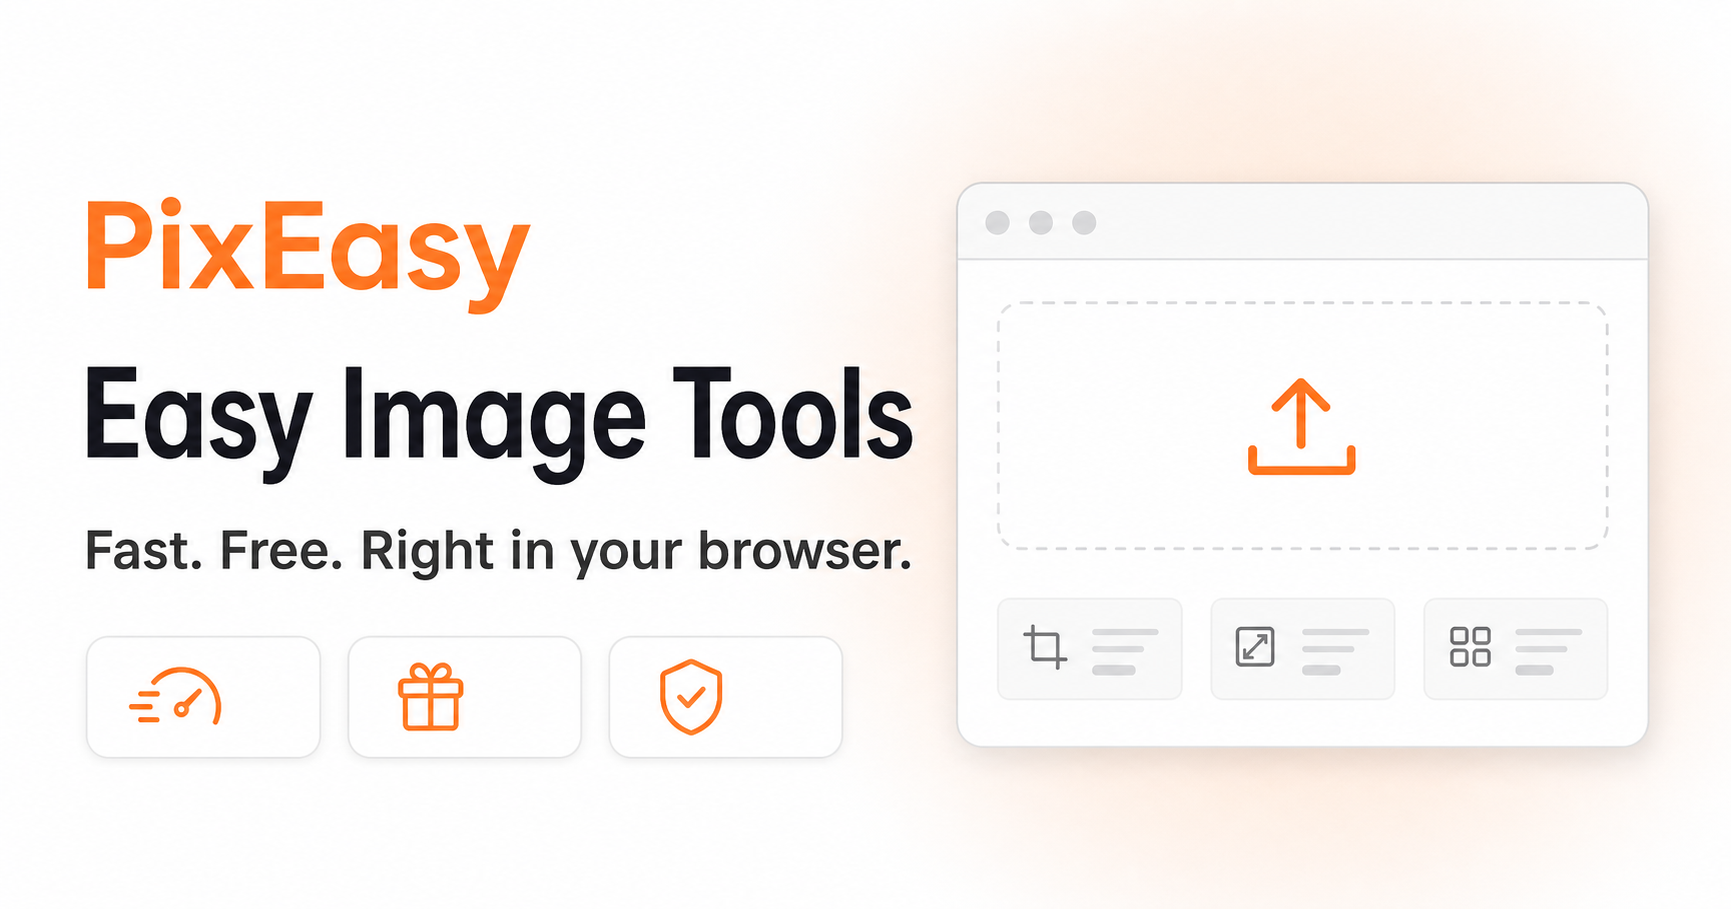
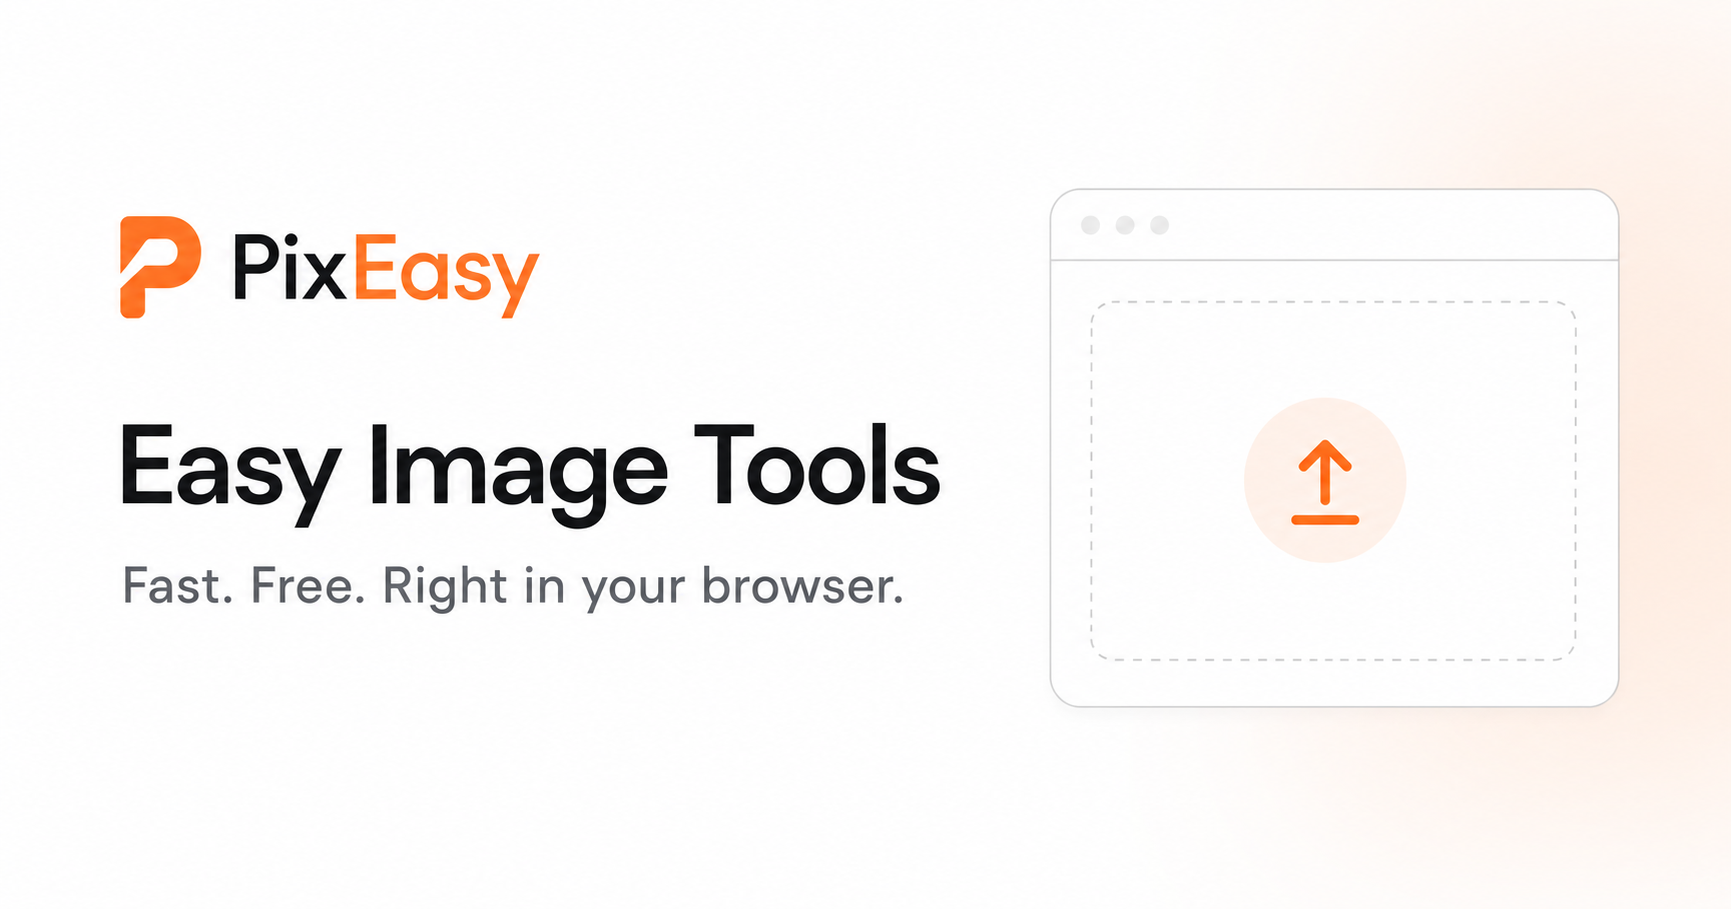
Polish PixEasy interface and brand assets

diff --git a/app/globals.css b/app/globals.css
@@ -1,59 +1,69 @@
 @import "tailwindcss";
 
-:root { --orange:#ff862c; --orange-dark:#d95d09; --ink:#1d1d1f; --muted:#6f7177; --line:#e9e9e7; --soft:#faf9f7; --green:#16865c; }
+:root { --orange:#ff862c; --orange-hover:#ff9547; --orange-dark:#c95106; --ink:#171719; --muted:#65676d; --line:#e9e9e7; --soft:#faf9f7; --green:#16805a; }
 * { box-sizing:border-box; }
 html { scroll-behavior:smooth; }
-body { margin:0; background:#fff; color:var(--ink); font-family:Pretendard, Inter, ui-sans-serif, system-ui, -apple-system, BlinkMacSystemFont, "Segoe UI", sans-serif; }
+body { margin:0; background:#fff; color:var(--ink); font-family:Pretendard, Inter, ui-sans-serif, system-ui, -apple-system, BlinkMacSystemFont, "Segoe UI", sans-serif; -webkit-font-smoothing:antialiased; text-rendering:optimizeLegibility; }
 a { color:inherit; text-decoration:none; }
 button,input,select { font:inherit; }
 button { cursor:pointer; }
-:focus-visible { outline:3px solid rgba(255,134,44,.42); outline-offset:3px; }
+:focus-visible { outline:3px solid rgba(255,134,44,.5); outline-offset:3px; }
 .wrap { width:min(1120px, calc(100% - 32px)); margin-inline:auto; }
-.site-header { height:72px; border-bottom:1px solid var(--line); background:rgba(255,255,255,.94); position:sticky; top:0; z-index:20; backdrop-filter:blur(12px); }
+.site-header { height:72px; border-bottom:1px solid rgba(20,20,20,.07); background:rgba(255,255,255,.88); position:sticky; top:0; z-index:20; backdrop-filter:blur(18px) saturate(1.4); }
 .header-inner { height:100%; display:flex; align-items:center; justify-content:space-between; gap:24px; }
 .logo { font-size:1.45rem; font-weight:850; letter-spacing:-.045em; }
 .logo i { color:var(--orange); font-style:normal; }
-.nav { display:flex; align-items:center; gap:26px; color:#555; font-size:.94rem; font-weight:650; }
+.nav { display:flex; align-items:center; gap:28px; color:#55575c; font-size:.9rem; font-weight:650; }
+.nav a { transition:color 160ms ease; }
 .nav a:hover { color:var(--orange-dark); }
-.hero { min-height:650px; padding:92px 16px 52px; text-align:center; background:radial-gradient(circle at 50% 26%,#fff4eb 0,rgba(255,244,235,0) 36%); }
-.eyebrow { color:var(--orange-dark); font-size:.76rem; text-transform:uppercase; letter-spacing:.14em; font-weight:800; margin:0 0 14px; }
+.hero { min-height:690px; padding:108px 16px 64px; text-align:center; background:radial-gradient(circle at 50% 23%,#fff6ef 0,rgba(255,246,239,0) 38%); }
+.eyebrow { color:var(--orange-dark); font-size:.73rem; text-transform:uppercase; letter-spacing:.16em; font-weight:800; margin:0 0 20px; }
 h1,h2,h3,p { margin-top:0; }
-.hero h1 { margin-bottom:13px; font-size:clamp(2.8rem,8vw,5.3rem); letter-spacing:-.065em; line-height:.96; }
-.hero-subtitle { color:var(--muted); font-size:clamp(1.05rem,3vw,1.32rem); margin-bottom:38px; }
-.upload-zone { display:block; width:min(760px,100%); min-height:230px; margin:0 auto; padding:32px; border:1.5px dashed #c9c7c3; border-radius:20px; background:#fff; box-shadow:0 14px 46px rgba(40,31,23,.06); transition:.2s ease; position:relative; }
-.upload-zone.dragging,.upload-zone:hover { border-color:var(--orange); background:#fffaf6; transform:translateY(-2px); }
-.upload-zone.compact { min-height:170px; width:100%; box-shadow:none; }
-.upload-icon { width:54px; height:54px; margin:4px auto 18px; display:grid; place-items:center; border-radius:15px; background:#fff0e5; color:var(--orange-dark); font-size:1.6rem; }
+.hero h1 { margin-bottom:18px; font-size:clamp(2.9rem,8vw,5.4rem); letter-spacing:-.068em; line-height:.96; }
+.hero-subtitle { color:var(--muted); font-size:clamp(1.08rem,3vw,1.34rem); margin-bottom:46px; }
+.upload-zone { display:block; width:min(760px,100%); min-height:260px; margin:0 auto; padding:42px 34px 32px; border:1.5px dashed #c8c7c4; border-radius:22px; background:rgba(255,255,255,.96); box-shadow:0 18px 55px rgba(32,27,23,.065); transition:border-color 180ms ease,background-color 180ms ease,box-shadow 180ms ease,transform 180ms ease; position:relative; }
+.upload-zone:hover { border-color:#ffb27b; background:#fffdfb; box-shadow:0 22px 65px rgba(40,31,23,.09); transform:translateY(-2px); }
+.upload-zone.dragging { border-color:var(--orange); background:#fff8f2; box-shadow:0 0 0 4px rgba(255,134,44,.11),0 22px 65px rgba(40,31,23,.09); transform:translateY(-2px); }
+.upload-zone.compact { min-height:205px; width:100%; padding-block:30px 26px; box-shadow:0 8px 30px rgba(25,25,25,.035); }
+.upload-icon { width:68px; height:68px; margin:0 auto 22px; display:grid; place-items:center; border-radius:20px; background:#fff0e5; color:var(--orange-dark); font-size:2rem; font-weight:500; }
 .upload-zone strong { display:block; font-size:1.08rem; }
-.upload-zone small { display:block; color:var(--muted); margin:8px 0 20px; }
-.upload-button,.primary-btn { border:0; color:#fff; background:var(--orange); border-radius:10px; min-height:44px; padding:0 22px; font-weight:750; box-shadow:0 5px 15px rgba(255,134,44,.22); }
-.upload-button:hover,.primary-btn:hover { background:#f2741b; }
-.upload-note { display:block; margin-top:13px; color:#888; font-size:.76rem; }
-.trust-row { display:flex; flex-wrap:wrap; justify-content:center; gap:18px 28px; margin:28px auto 0; color:#61636a; font-size:.83rem; }
-.trust-row span { display:flex; gap:7px; align-items:center; }
-.trust-row b { color:var(--green); }
-.home-tools { padding:82px 0; }
+.upload-zone small { display:block; color:var(--muted); margin:9px 0 23px; }
+.upload-button,.primary-btn { border:0; color:#fff; background:var(--orange); border-radius:12px; min-height:46px; padding:0 24px; font-weight:750; box-shadow:0 5px 15px rgba(255,134,44,.2); transition:background-color 160ms ease,box-shadow 160ms ease; }
+.upload-button:hover,.primary-btn:hover { background:var(--orange-hover); box-shadow:0 7px 20px rgba(255,134,44,.25); }
+.format-list { display:flex; align-items:center; justify-content:center; flex-wrap:wrap; gap:8px 15px; margin-top:19px; color:#77797f; font-size:.76rem; }
+.format-list>span { display:inline-flex; align-items:center; gap:5px; }
+.format-list b { color:var(--green); }
+.format-list .size-limit { padding-left:15px; border-left:1px solid #dededb; color:#8a8b90; }
+.trust-row { display:flex; flex-wrap:wrap; justify-content:center; gap:14px; margin:34px auto 0; color:#5d6065; font-size:.82rem; }
+.trust-row>span { display:flex; gap:8px; align-items:center; padding:8px 12px; border:1px solid #ecece9; border-radius:999px; background:rgba(255,255,255,.7); }
+.trust-row b { width:17px; height:17px; display:grid; place-items:center; color:#fff; background:var(--green); border-radius:50%; font-size:.62rem; }
+.home-tools { padding:100px 0 86px; }
 .section-heading { display:flex; justify-content:space-between; align-items:end; gap:20px; margin-bottom:28px; }
 .section-heading h2 { font-size:clamp(1.75rem,4vw,2.5rem); letter-spacing:-.045em; margin:0; }
 .section-heading>p { color:var(--muted); max-width:330px; margin:0; }
-.tool-cards { display:grid; grid-template-columns:repeat(3,1fr); gap:16px; }
-.tool-card { border:1px solid var(--line); border-radius:16px; padding:24px; display:grid; grid-template-columns:auto 1fr auto; gap:15px; align-items:center; box-shadow:0 6px 22px rgba(20,20,20,.035); transition:.2s; }
-.tool-card:hover { transform:translateY(-3px); border-color:#ffd3b3; }
-.card-icon { width:44px; height:44px; display:grid; place-items:center; border-radius:12px; background:#fff1e7; color:var(--orange-dark); font-weight:900; }
+.tool-cards { display:grid; grid-template-columns:repeat(3,1fr); gap:18px; }
+.tool-card { min-height:205px; border:1px solid rgba(24,24,24,.075); border-radius:18px; padding:28px; display:grid; grid-template-columns:1fr auto; grid-template-rows:auto 1fr; gap:24px 14px; align-items:start; background:linear-gradient(180deg,#fff 0%,#fffdfb 100%); box-shadow:0 10px 30px rgba(20,20,20,.045); cursor:pointer; transition:transform 180ms ease,box-shadow 180ms ease,border-color 180ms ease; }
+.tool-card:hover { transform:translateY(-5px); border-color:#ffd0ae; box-shadow:0 18px 44px rgba(35,26,20,.09); }
+.card-icon { width:52px; height:52px; display:grid; place-items:center; border-radius:15px; background:#fff1e7; font-size:1.55rem; }
+.tool-card>span:nth-child(2) { grid-column:1 / -1; align-self:end; }
 .tool-card strong,.tool-card small { display:block; }
-.tool-card small { color:var(--muted); line-height:1.45; margin-top:5px; }
-.arrow { color:var(--orange-dark); font-size:1.25rem; }
+.tool-card strong { font-size:1.08rem; letter-spacing:-.015em; }
+.tool-card small { color:var(--muted); line-height:1.5; margin-top:7px; }
+.arrow { grid-column:2; grid-row:1; color:var(--orange-dark); font-size:1.25rem; padding-top:12px; }
 .ad { min-height:78px; margin:42px auto; border:1px solid var(--line); background:#fbfbfa; color:#a0a0a0; display:grid; place-items:center; text-align:center; font-size:.7rem; letter-spacing:.13em; text-transform:uppercase; border-radius:9px; }
 .tool-main { padding:56px 0 80px; }
 .tool-intro { text-align:center; max-width:720px; margin:0 auto 30px; }
 .tool-intro h1 { font-size:clamp(2.2rem,6vw,3.7rem); letter-spacing:-.055em; margin-bottom:12px; }
 .tool-intro p { color:var(--muted); font-size:1.05rem; }
-.workspace { display:grid; grid-template-columns:minmax(0,1.55fr) minmax(290px,.65fr); gap:20px; align-items:start; }
+.workspace { display:grid; grid-template-columns:minmax(0,1.65fr) minmax(300px,.62fr); gap:22px; align-items:start; }
 .panel { border:1px solid var(--line); border-radius:18px; background:#fff; padding:20px; box-shadow:0 8px 30px rgba(20,20,20,.035); }
 .panel-title { display:flex; align-items:center; justify-content:space-between; gap:12px; margin-bottom:16px; }
 .panel-title h2,.panel h2 { font-size:1rem; margin:0; }
 .reset-btn,.text-btn { border:0; background:none; color:var(--orange-dark); font-weight:750; padding:7px; }
-.preview-grid { display:grid; grid-template-columns:1fr 1fr; gap:12px; }
+.preview-grid { display:grid; grid-template-columns:1fr 26px 1fr; gap:12px; align-items:center; }
+.preview-grid::before { content:"→"; grid-column:2; grid-row:1; color:#b1b2b5; text-align:center; font-size:1.1rem; }
+.preview-grid .preview-wrap:first-child { grid-column:1; grid-row:1; }
+.preview-grid .preview-wrap:last-child { grid-column:3; grid-row:1; }
 .preview-wrap { min-width:0; }
 .preview-label { color:#65676d; font-size:.77rem; font-weight:750; margin:0 0 8px; }
 .preview-box { min-height:310px; border-radius:12px; border:1px solid var(--line); background:#f5f4f2; display:grid; place-items:center; overflow:hidden; position:relative; }
@@ -92,25 +102,37 @@ h1,h2,h3,p { margin-top:0; }
 .legal h1 { font-size:clamp(2.3rem,6vw,3.6rem); letter-spacing:-.05em; }
 .legal h2 { margin-top:34px; }
 .legal p { color:#5f6267; }
-.site-footer { border-top:1px solid var(--line); padding:35px 0; color:#72747a; font-size:.82rem; }
+.site-footer { border-top:1px solid var(--line); padding:42px 0; color:#686a70; font-size:.82rem; background:#fdfdfc; }
 .footer-inner { display:flex; justify-content:space-between; gap:25px; align-items:center; }
-.footer-links { display:flex; gap:18px; flex-wrap:wrap; }
+.footer-links { display:flex; gap:22px; flex-wrap:wrap; }
+.footer-links a { transition:color 160ms ease; }
+.footer-links a:hover { color:var(--orange-dark); }
 @media (max-width:820px) {
   .nav a:not(.all-tools-link) { display:none; }
-  .hero { padding-top:70px; min-height:auto; }
+  .hero { padding-top:82px; min-height:auto; }
   .tool-cards,.workspace,.info-section { grid-template-columns:1fr; }
   .section-heading { display:block; }
   .section-heading>p { margin-top:12px; }
-  .workspace .controls-panel { order:-1; }
+  .workspace .controls-panel { order:initial; }
 }
 @media (max-width:580px) {
   .wrap { width:min(100% - 22px,1120px); }
   .site-header { height:64px; }
-  .hero { padding-inline:11px; }
-  .upload-zone { padding:24px 16px; min-height:210px; }
-  .trust-row { gap:12px 16px; }
-  .home-tools { padding:58px 0; }
-  .preview-grid { grid-template-columns:1fr; }
+  .hero { padding:64px 11px 48px; }
+  .hero h1 { margin-bottom:14px; }
+  .hero-subtitle { margin-bottom:36px; }
+  .upload-zone { padding:32px 16px 26px; min-height:250px; border-radius:18px; }
+  .upload-icon { width:60px; height:60px; border-radius:17px; }
+  .format-list { gap:8px 12px; }
+  .format-list .size-limit { width:100%; padding:4px 0 0; border-left:0; }
+  .trust-row { gap:8px; margin-top:27px; }
+  .trust-row>span { padding:7px 9px; font-size:.75rem; }
+  .home-tools { padding:70px 0 58px; }
+  .tool-card { min-height:170px; padding:23px; }
+  .preview-grid { grid-template-columns:1fr; gap:10px; }
+  .preview-grid::before { content:"↓"; grid-column:1; grid-row:2; }
+  .preview-grid .preview-wrap:first-child { grid-column:1; grid-row:1; }
+  .preview-grid .preview-wrap:last-child { grid-column:1; grid-row:3; }
   .preview-box { min-height:240px; }
   .tool-main { padding-top:38px; }
   .panel { padding:14px; }

diff --git a/app/page.tsx b/app/page.tsx
@@ -11,9 +11,9 @@ export const metadata: Metadata = {
 };
 
 const cards = [
-  { title: "Color Tools", copy: "Invert colors or create a clean grayscale image.", href: "/invert-image", icon: "◐" },
-  { title: "JPG & PNG Converter", copy: "Convert formats and control transparency with ease.", href: "/jpg-to-png", icon: "↔" },
-  { title: "Resize Image", copy: "Set width, height, or exact dimensions in pixels.", href: "/resize-image", icon: "↗" },
+  { title: "Invert Image", copy: "Invert image colors instantly.", href: "/invert-image", icon: "🎨" },
+  { title: "JPG ↔ PNG", copy: "Convert images in seconds.", href: "/jpg-to-png", icon: "🖼" },
+  { title: "Resize Image", copy: "Resize without installing software.", href: "/resize-image", icon: "📐" },
 ];
 
 export default function Home() {
@@ -22,13 +22,13 @@ export default function Home() {
       <Header />
       <main>
         <section className="hero">
-          <div className="eyebrow">Private image editing, made simple</div>
+          <div className="eyebrow">Fast, free image tools</div>
           <h1>Easy Image Tools</h1>
           <p className="hero-subtitle">Fast. Free. Right in your browser.</p>
           <HomeUpload />
-          <div className="trust-row" aria-label="PixEasy benefits">
-            {["100% Free", "No Sign-up", "No Watermark", "Processed locally"].map((item) => (
-              <span key={item}><b aria-hidden="true">✓</b>{item}</span>
+          <div className="trust-row" aria-label="Why people choose PixEasy">
+            {["100% Free", "No Sign-up", "No Watermark", "Processed Locally"].map((item) => (
+              <span key={item}><b aria-hidden="true">✓</b><span>{item}</span></span>
             ))}
           </div>
         </section>
@@ -36,7 +36,7 @@ export default function Home() {
         <section className="home-tools wrap" id="all-tools" aria-labelledby="tools-title">
           <div className="section-heading">
             <div>
-              <p className="eyebrow">Everything you need</p>
+              <p className="eyebrow">Three simple tools</p>
               <h2 id="tools-title">Pick a tool and get it done</h2>
             </div>
             <p>No uploads, accounts, or complicated settings.</p>

diff --git a/app/layout.tsx b/app/layout.tsx
@@ -7,13 +7,13 @@ export const metadata: Metadata = {
   metadataBase: new URL(siteUrl),
   title: { default: "PixEasy — Easy Image Tools", template: "%s | PixEasy" },
   description: "Fast, free image tools that work privately in your browser.",
-  icons: { icon: "/favicon.svg", shortcut: "/favicon.svg" },
+  icons: { icon: [{ url: "/favicon.png", type: "image/png", sizes: "64x64" }], shortcut: "/favicon.png", apple: "/favicon.png" },
   openGraph: {
     type: "website",
     siteName: "PixEasy",
     title: "PixEasy — Easy Image Tools",
     description: "Fast. Free. Right in your browser.",
-    images: [{ url: "/og.png", width: 1728, height: 909, alt: "PixEasy — Easy Image Tools" }],
+    images: [{ url: "/og.png", width: 1731, height: 909, alt: "PixEasy — Easy Image Tools" }],
   },
   twitter: { card: "summary_large_image", title: "PixEasy — Easy Image Tools", description: "Fast. Free. Right in your browser.", images: ["/og.png"] },
 };

diff --git a/components/upload-dropzone.tsx b/components/upload-dropzone.tsx
@@ -44,7 +44,12 @@ export function UploadDropzone({ onFile, compact = false }: { onFile: (file: Fil
         <strong>Drop your image here</strong>
         <small>or choose a file from your device</small>
         <button className="upload-button" type="button" onClick={(event) => { event.stopPropagation(); inputRef.current?.click(); }}>Choose image</button>
-        <span className="upload-note">JPG, PNG or WebP · up to 50 MB</span>
+        <span className="format-list" aria-label="Supported formats">
+          <span><b aria-hidden="true">✓</b> JPG</span>
+          <span><b aria-hidden="true">✓</b> PNG</span>
+          <span><b aria-hidden="true">✓</b> WebP</span>
+          <span className="size-limit">Maximum 50 MB</span>
+        </span>
       </div>
       {error && <p className="error" role="alert">{error}</p>}
     </>

diff --git a/components/site-shell.tsx b/components/site-shell.tsx
@@ -20,7 +20,7 @@ export function Footer() {
       <div className="wrap footer-inner">
         <span>© {new Date().getFullYear()} PixEasy. Images stay on your device.</span>
         <nav className="footer-links" aria-label="Footer navigation">
-          <Link href="/about">About</Link><Link href="/privacy">Privacy</Link><Link href="/terms">Terms</Link>
+          <Link href="/about">About</Link><Link href="/privacy">Privacy</Link><Link href="/terms">Terms</Link><a href="mailto:hello@pixeasy.site">Contact</a>
         </nav>
       </div>
     </footer>
